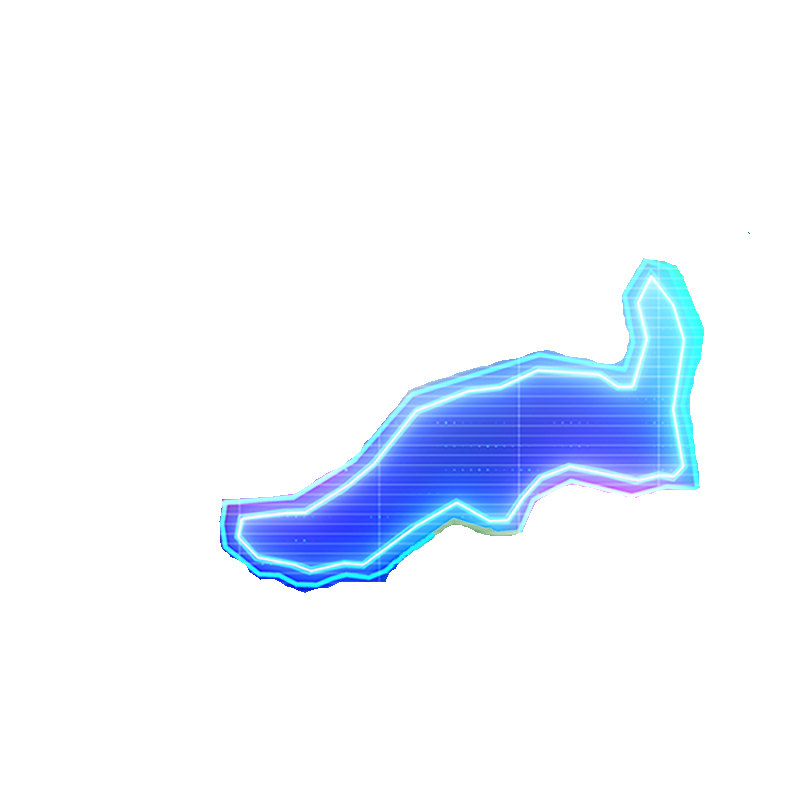
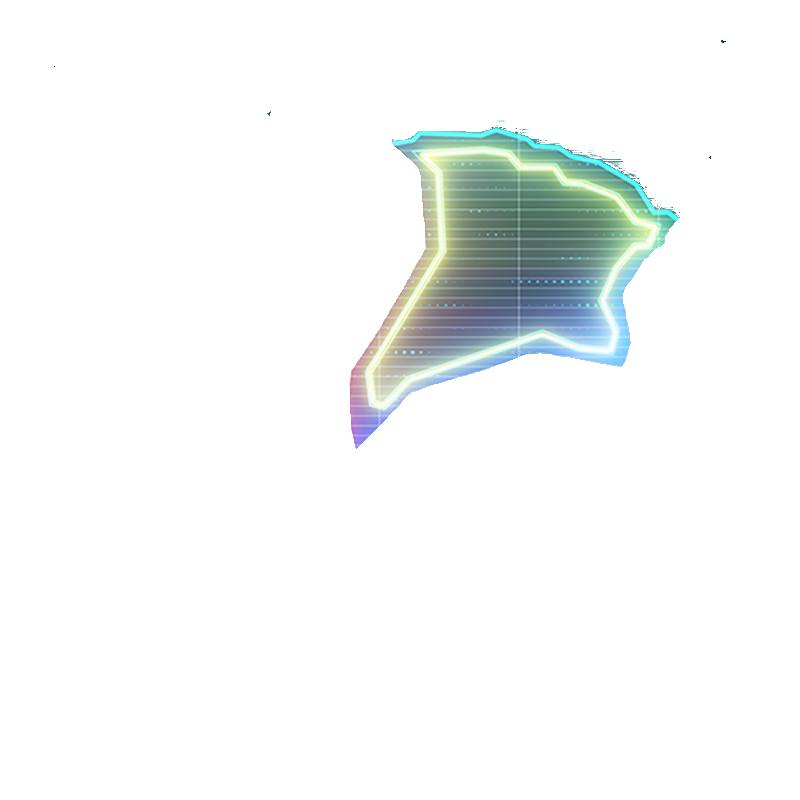
Stacked images on top of image to form whole brain, added rewards to profile

Changed region(s): [[0.25, 0.1562, 0.9062, 0.75]]

diff --git a/src/main/resources/templates/user_profile.html b/src/main/resources/templates/user_profile.html
@@ -1,12 +1,166 @@
 <!DOCTYPE html>
 <html lang="en" xmlns:th="http://www.thymeleaf.org">
     <head th:replace="fragments/head(title='Profile')" ></head>
+    <script>
+
+        function showOcipital() {
+            displayRewardModal("The Occipital", "/img/img18.jpg", "The eyes in the back of your head: \n" +
+                "The occipital lobe sits at the back of the brain. It processes the information we see and allows us to remember and assign meanings to different images. The occipital lobe actually receives images from the eyes upside down – it processes them to turn them the right way up!")
+        }
+
+        function showParital() {
+            displayRewardModal("The parietal lobe", "/img/img23.jpg", "The parietal lobe contains an area of grey matter called the sensory strip. This processes sensory information such as pain, touch and temperature. \n" +
+                "\n" +
+                "The sensory strip is like a map of our body – the bumps and grooves on the brain’s surface receive information from different parts of the body. It is called the somatosensory homunculus (shown below). The bigger the body part is on the homunculus, the more sensitive the body part. You can see the hands are huge!")
+            $("#parietal_extra").removeAttr("hidden");
+        }
+
+        function showCerebellem() {
+            displayRewardModal("The Cerebellem", "/img/img24.jpg", "The cerebellum is Latin for ‘little brain.’ This area is vital for fine tuning your movements and controlling balance. \n" +
+                "\n" +
+                "The cerebellum in disease:\n" +
+                "Diseases such as multiple sclerosis and brain tumours can damage the cerebellum. If your cerebellum was damaged, you would walk with an unstable, uncoordinated gait and frequently stumble or fall over. ")
+        }
+
+        function showFrontal() {
+            displayRewardModal("The Frontal", "/img/img7.jpg", "The frontal lobe is involved in thinking, decision making and planning. It is also plays a key role in determining our personality.")
+        }
+
+        function showTemporal() {
+            displayRewardModal("The Temporal lobe", "/img/img20.jpg", " The temporal lobe is involved in perceiving and remembering sounds. It also works in with other areas of the brain to form conscious memories.")
+        }
+
+
+        function displayRewardModal(brainPart, brainImage, brainDesc) {
+            $("#parietal_extra").attr("hidden", "true");
+            $("#reward_brain_part").text(brainPart);
+            $("#reward_brain_image").attr("src", brainImage);
+            $("#reward_brain_desc").text(brainDesc);
+            $("#rewardDetailsModal").modal('show');
+        }
+
+        var updateEmail = function(){
+            $.ajax({
+                type: "PUT",
+                url: "/api/account/update/email",
+                data: {
+                    "newEmail": $("#newEmail").val()
+                },
+                success: function(data, textstatus, request){
+                    var invalidFormat = request.getResponseHeader("invalidFormat");
+                    if(invalidFormat){
+                        $("#emailError").text("Email is in the wrong format");
+                    } else {
+                        var updated = request.getResponseHeader("updated");
+                        if(updated){
+                            window.location = "/logout";
+                        } else{
+                            var emailExists = request.getResponseHeader("emailExists");
+                            if(emailExists){
+                                $("#emailError").text("That email is already in use.");
+                            } else {
+                                $("#emailError").text("There was an error, please try again");
+                            }
+                        }
+                    }
+                }})
+        };
+
+        var disableAccount = function(){
+            $.ajax({
+                type: "POST",
+                url: "/api/account/disable",
+                success: function (data, textstatus, request) {
+                    var success = request.getResponseHeader("disabled");
+
+                    if(success){
+                        window.location = "/logout";
+                    } else {
+                        $.notify("There was an error at this time", {});
+                    }
+                }
+            })
+        };
+
+        var deleteAccount = function(){
+            $.ajax({
+                type: "POST",
+                url: "/api/account/delete",
+                success: function (data, textstatus, request) {
+                    var success = request.getResponseHeader("deleted");
+                    if(success){
+                        window.location = "/logout";
+                    } else {
+                        $.notify("There was an error at this time", {});
+                    }
+                }
+            })
+        };
+
+        $(function() {
+
+
+            $.ajax({
+                type: "GET",
+                url: "/api/rewards/",
+                success: function(data){
+                    jQuery.each(data, function(i, val) {
+                        if(val == 1){
+                            $("#"+i).prop("checked", true);
+                            $("#"+i+"_reward_image").removeAttr("hidden");
+                        } else {
+                            $("#"+i+"_reward_button").prop("disabled", "true");
+                            $("#"+i+"_reward_button").addClass("class", "alert alert-danger");
+                        }
+                    })
+                },
+                error: function(){
+                    alert("There was an error getting this data.");
+                }
+            });
+
+            $.ajax({
+                type: "GET",
+                url: "/api/ratings/responses/amount",
+                success: function(data){
+                    $("#numberScansRated").text(data);
+                },
+                error: function(){
+                    alert("There was an error getting this data.");
+                }
+            });
+            $('[data-toggle="tooltip"]').tooltip();
+        })
+    </script>
     <body>
 
     <nav class="navbar navbar-default" th:replace="fragments/navigation"></nav>
 
 
     <div class="container">
+        <div class="modal fade" id="rewardDetailsModal" tabindex="-1" role="dialog" aria-labelledby="rewardModalTitle" aria-hidden="true">
+            <div class="modal-dialog modal-dialog-centered" role="document">
+                <div class="modal-content">
+                    <div class="modal-header">
+                        <h5 class="modal-title" id="rewardModalLongTitle">Congratulations</h5>
+                        <button type="button" class="close" data-dismiss="modal" aria-label="Close">
+                            <span aria-hidden="true">&times;</span>
+                        </button>
+                    </div>
+                    <div class="modal-body">
+                        <h3 id="reward_brain_part">Reward image: The frontal lobe</h3>
+                        <p id="reward_brain_desc">Well done - you just unlocked the frontal lobe! The frontal lobe is involved in thinking, decision making and planning. It is also plays a key role in determining our personality.</p>
+                        <div class="card" style="width: 100%">
+                            <div class="card-body text-center">
+                                <img class="img-responsive" id="reward_brain_image" src="/img/img7.jpg" height="300">
+                                <img class="img-responsive" id="parietal_extra" src="/img/img21.jpg" height="300" hidden>
+                            </div>
+                        </div>
+                    </div>
+                </div>
+            </div>
+        </div>
+
 
         <!-- Modal to confirm disabling a user -->
         <div class="modal fade" id="disableUserModal" tabindex="-1" role="dialog" aria-labelledby="disableUserModalCenterTitle" aria-hidden="true">
@@ -121,30 +275,23 @@
                  <div class="card-body">
                      <h2>Your rewards</h2>
                      <div class="row">
-                         <div class="col" data-toggle="tooltip" title="Rewarded for completing the training!" data-placement="bottom">
-                             <img class="reward_image" src="/img/blankbrain.jpg" width="50%" id="empty_brain">
-                             <img class="reward_image" src="/img/ocipatalseperate.png" width="50%" id="ocipital">
-                             <img class="reward_image" src="/img/parentialseperate.png" width="50%" id="parential">
-                             <img class="reward_image" src="/img/cerebellemseperate.png" width="50%" id="cerebellem">
-                             <img class="reward_image" src="/img/frontalseperate.png" width="50%" id="frontal">
-                             <img class="reward_image" src="/img/paritalseperate.png" width="50%" id="parital">
-                         </div>
+                         <div class="col" style="height: 400px;">
 
-<!--                         <div class="col" data-toggle="tooltip" title="Rewarded for completing the training!" data-placement="bottom">-->
-<!--                             <img class="locked_reward" src="/img/img7.jpg" width="100%" id="training_reward_image">-->
-<!--                         </div>-->
-<!--                         <div class="col" data-toggle="tooltip" title="Rewarded for completing 10 correct practice questions!" data-placement="bottom">-->
-<!--                             <img class="locked_reward" src="/img/img18.jpg" width="100%" id="practice_reward_image">-->
-<!--                         </div>-->
-<!--                         <div class="col" data-toggle="tooltip" title="Rewarded for sorting 25 real images for us!" data-placement="bottom">-->
-<!--                             <img class="locked_reward" src="/img/img20.jpg" width="100%" id="sort25_reward_image">-->
-<!--                         </div>-->
-<!--                         <div class="col" data-toggle="tooltip" title="Rewarded for sorting 50 real images for us!" data-placement="bottom">-->
-<!--                             <img class="locked_reward" src="/img/img23.jpg" width="100%" id="sort50_reward_image">-->
-<!--                         </div>-->
-<!--                         <div class="col" data-toggle="tooltip" title="Rewarded for leaving feedback about NeuroSwipe!" data-placement="bottom">-->
-<!--                             <img class="locked_reward" src="/img/img24.jpg" width="100%" id="feedback_reward_image">-->
-<!--                         </div>-->
+                             <img class="reward_image" src="/img/blankbrain.jpg" width="60%" id="empty_brain">
+                             <img id="practice_reward_image" class="reward_image" src="/img/ocipatalseperate.png" width="60%" hidden>
+                             <img id="sort25_reward_image" class="reward_image" src="/img/temporalseperate.png" width="60%" hidden>
+                             <img id="feedback_reward_image" class="reward_image" src="/img/cerebellemseperate.png" width="60%" hidden>
+                             <img id="training_reward_image" class="reward_image" src="/img/frontalseperate.png" width="60%" hidden>
+                             <img id="sort50_reward_image" class="reward_image" src="/img/paritalseperate.png" width="60%" hidden>
+                         </div>
+                         <div class="col">
+                             <h5>Click these to get more information about the brain!</h5>
+                             <button id="practice_reward_button" type="button" class="btn btn-secondary" onclick="showOcipital()">Ocipital</button>
+                             <button id="sort25_reward_button" type="button" class="btn btn-secondary" onclick="showTemporal()">Temporal lobe</button>
+                             <button id="feedback_reward_button" type="button" class="btn btn-secondary" onclick="showCerebellem()">Cerebellem</button>
+                             <button id="training_reward_button" type="button" class="btn btn-secondary" onclick="showFrontal()">Frontal</button>
+                             <button id="sort50_reward_button" type="button" class="btn btn-secondary" onclick="showParital()">Paritial</button>
+                         </div>
                      </div>
                  </div>
              </div>
@@ -160,11 +307,13 @@
 
         .reward_image{
             position: absolute;
+            transform: translate(35%, 5%);
         }
 
         .col{
             display: grid;
         }
+
 
         @media only screen and (max-width: 992px)  {
 
@@ -182,95 +331,5 @@
 
         }
     </style>
-    <script>
-        var updateEmail = function(){
-            $.ajax({
-                type: "PUT",
-                url: "/api/account/update/email",
-                data: {
-                    "newEmail": $("#newEmail").val()
-                },
-                success: function(data, textstatus, request){
-                    var invalidFormat = request.getResponseHeader("invalidFormat");
-                    if(invalidFormat){
-                        $("#emailError").text("Email is in the wrong format");
-                    } else {
-                        var updated = request.getResponseHeader("updated");
-                        if(updated){
-                            window.location = "/logout";
-                        } else{
-                            var emailExists = request.getResponseHeader("emailExists");
-                            if(emailExists){
-                                $("#emailError").text("That email is already in use.");
-                            } else {
-                                $("#emailError").text("There was an error, please try again");
-                            }
-                        }
-                    }
-                }})
-        };
 
-        var disableAccount = function(){
-            $.ajax({
-                type: "POST",
-                url: "/api/account/disable",
-                success: function (data, textstatus, request) {
-                    var success = request.getResponseHeader("disabled");
-
-                    if(success){
-                        window.location = "/logout";
-                    } else {
-                        $.notify("There was an error at this time", {});
-                    }
-                }
-            })
-        };
-
-        var deleteAccount = function(){
-            $.ajax({
-                type: "POST",
-                url: "/api/account/delete",
-                success: function (data, textstatus, request) {
-                    var success = request.getResponseHeader("deleted");
-                    if(success){
-                        window.location = "/logout";
-                    } else {
-                        $.notify("There was an error at this time", {});
-                    }
-                }
-            })
-        };
-
-        $(function() {
-
-
-            $.ajax({
-                type: "GET",
-                url: "/api/rewards/",
-                success: function(data){
-                    jQuery.each(data, function(i, val) {
-                        if(val == 1){
-                            $("#"+i).prop("checked", true);
-                            $("#"+i+"_reward_image").removeClass("locked_reward");
-                        }
-                    })
-                },
-                error: function(){
-                    alert("There was an error getting this data.");
-                }
-            });
-
-            $.ajax({
-                type: "GET",
-                url: "/api/ratings/responses/amount",
-                success: function(data){
-                    $("#numberScansRated").text(data);
-                },
-                error: function(){
-                    alert("There was an error getting this data.");
-                }
-            });
-            $('[data-toggle="tooltip"]').tooltip();
-        })
-    </script>
 </html>
